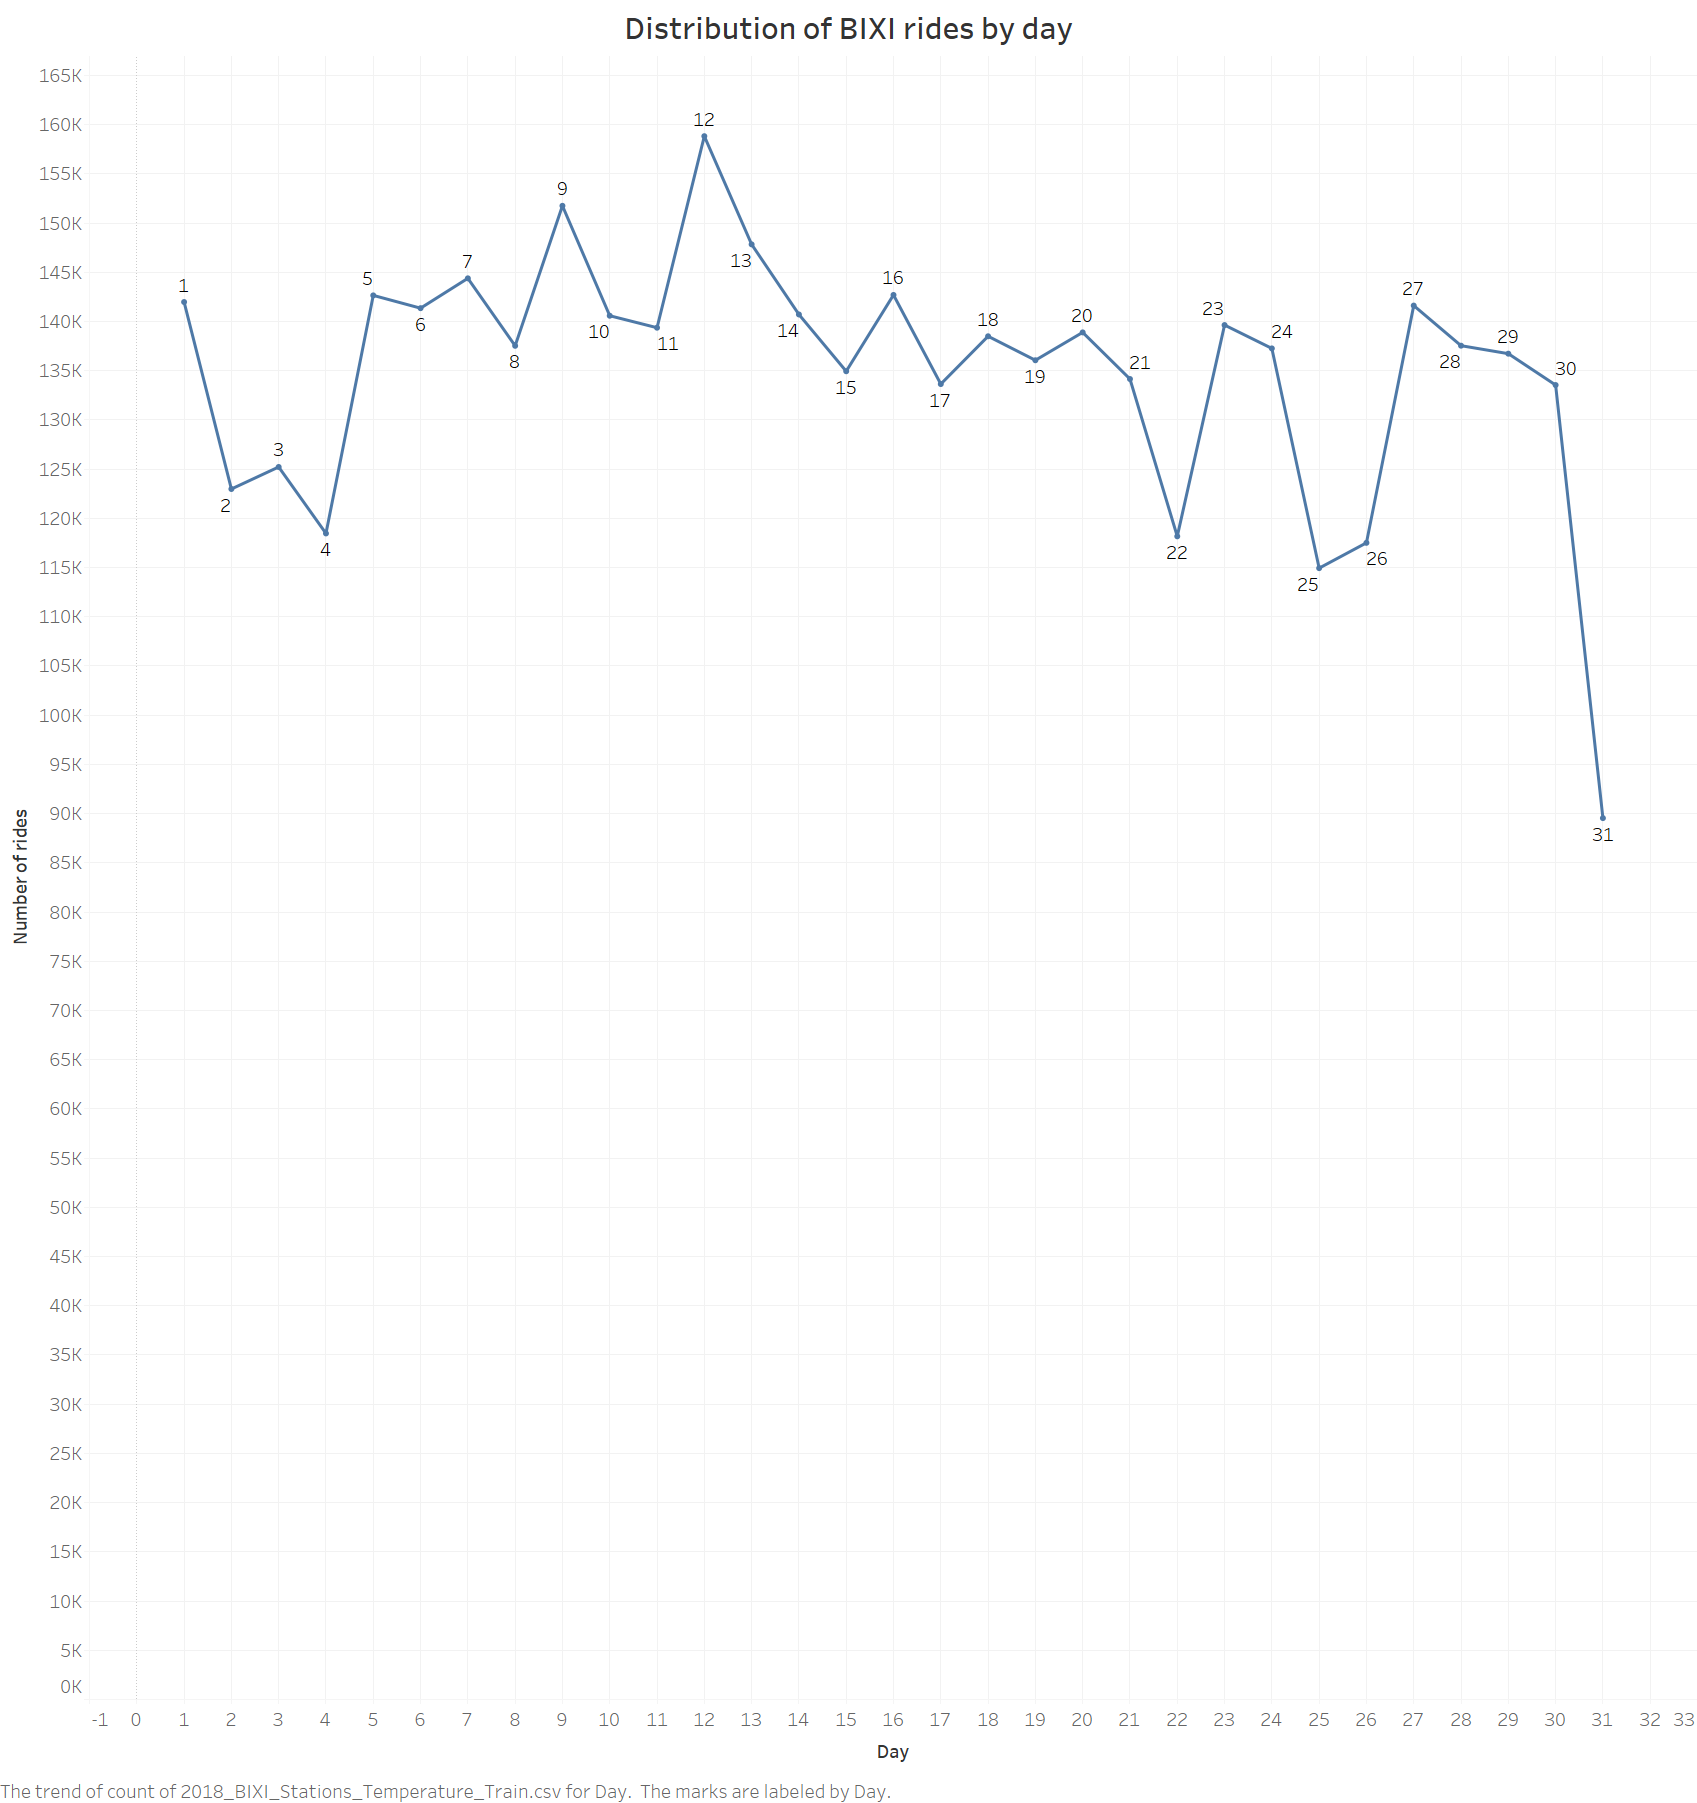
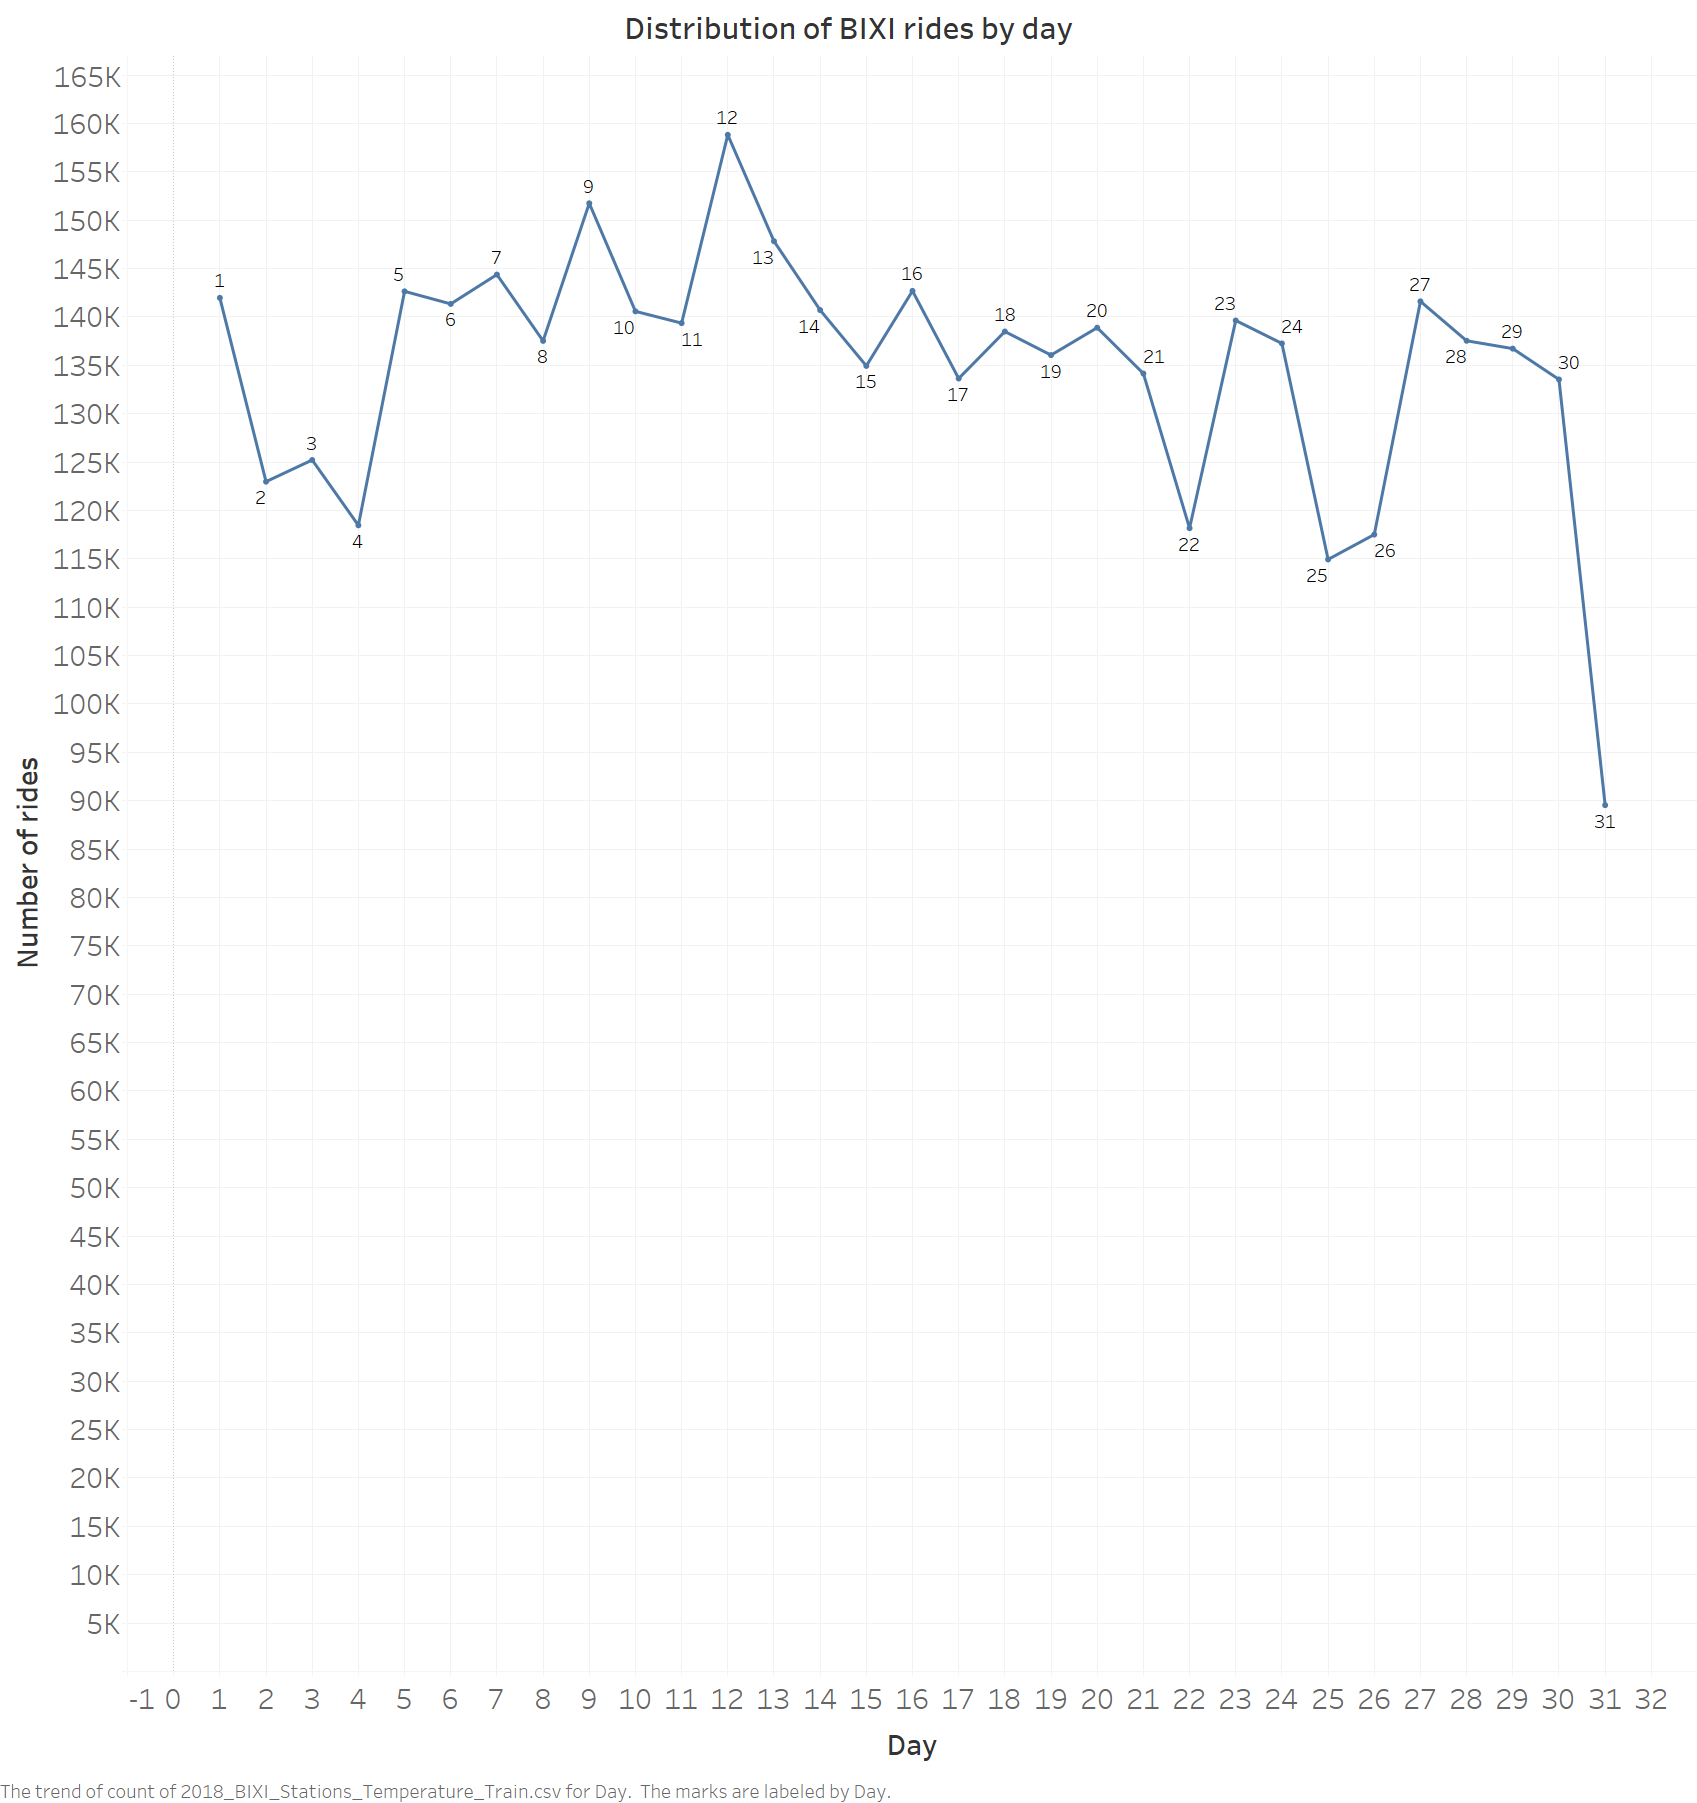
make axis labels more visible

diff --git a/README.md b/README.md
@@ -259,7 +259,7 @@ dtype: int64
 There aren't any null values for either train or test sets.
 
 ## 5) Data Exploration
-Let's look at the distribution for each column based on the number of rides.
+Let's look at the distribution for each column based on the number of rides.<br>
 **Month**<br>
 <img src="/images/Month_distribution.png" title="Distribution of BIXI rides by month" width="500" height="auto"/><br>
 **Day**<br>
